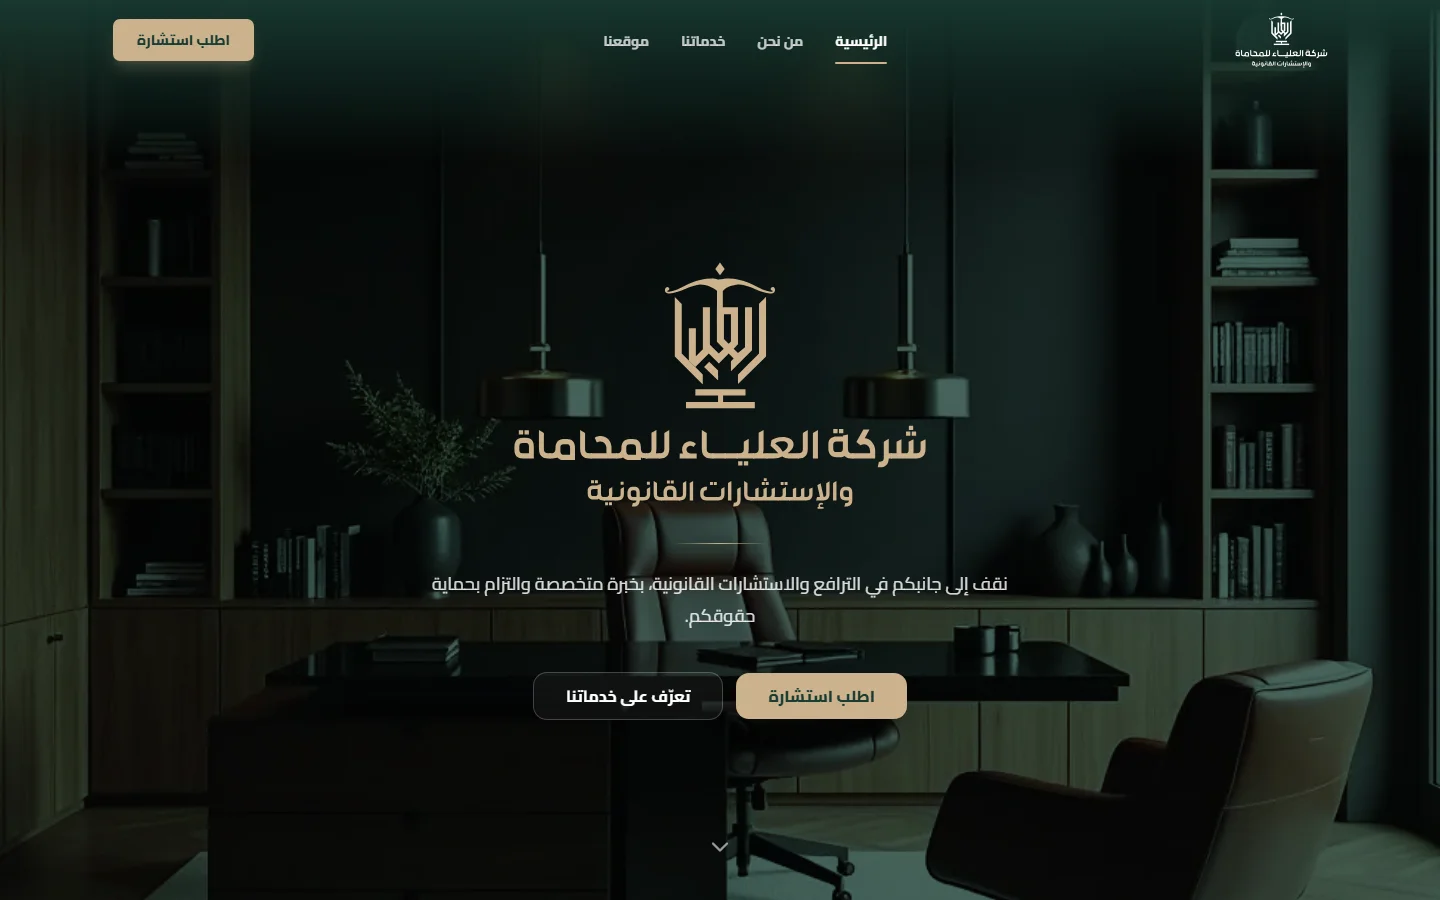
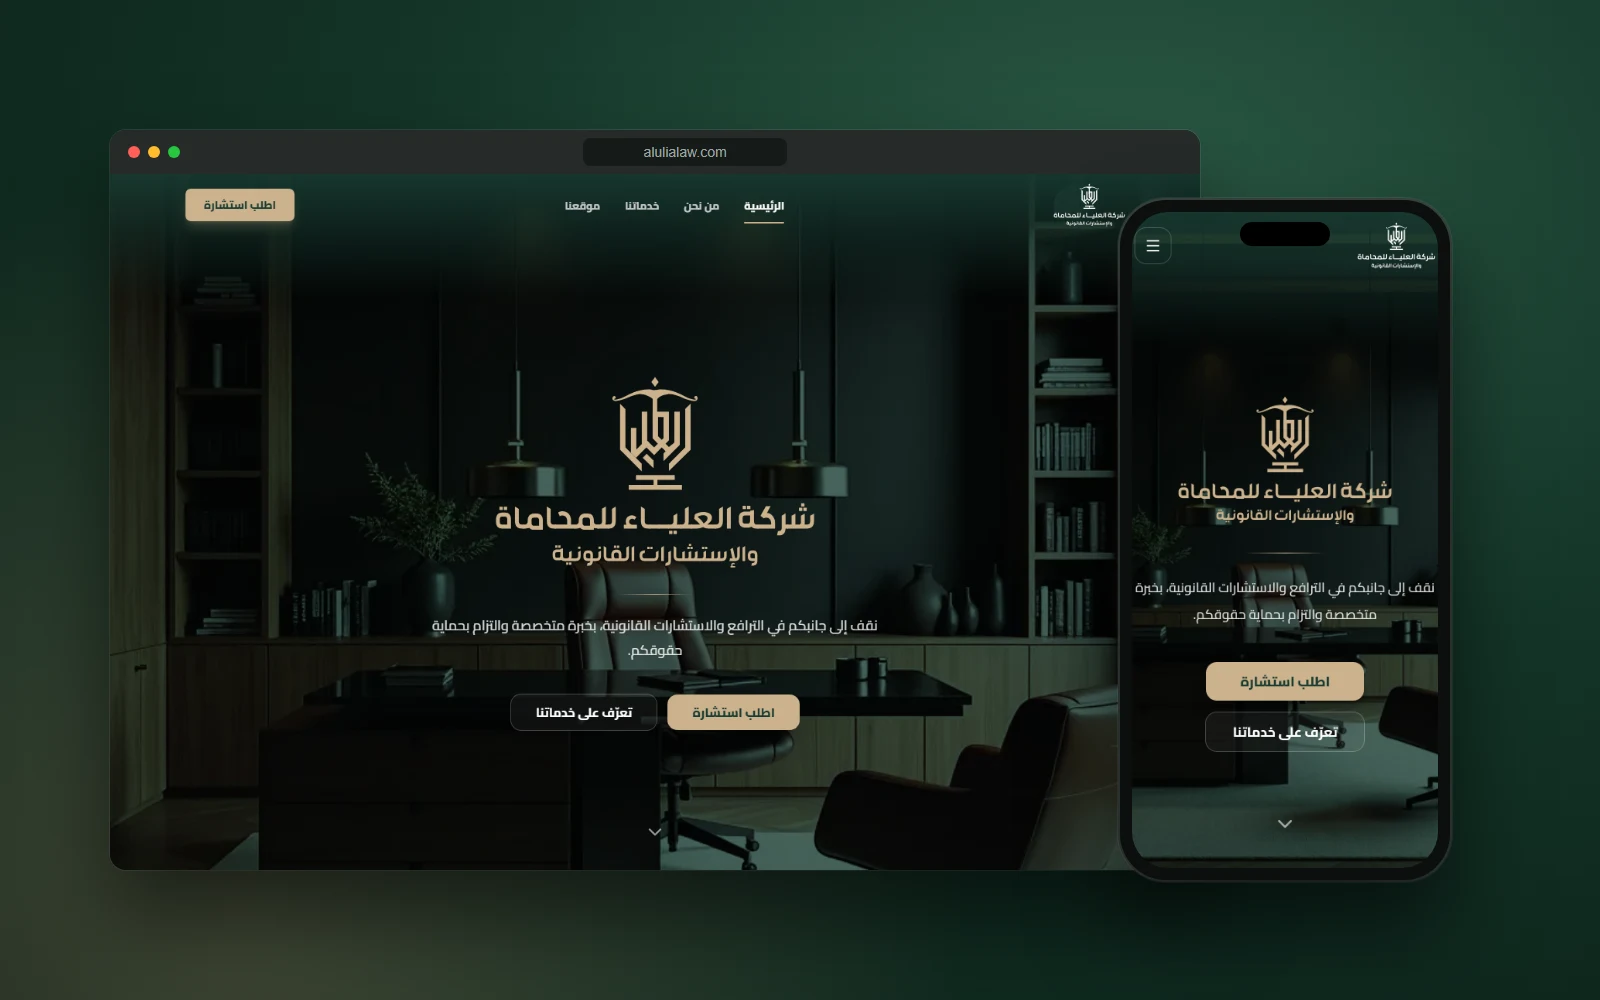
Redesign Al-Alia preview images (laptop + phone mockups, EN/AR) and use real domain

diff --git a/src/data/projects.ts b/src/data/projects.ts
@@ -38,7 +38,7 @@ export const PROJECTS: Project[] = [
       en: publicImage("alalia-en.webp"),
       ar: publicImage("alalia-ar.webp"),
     },
-    demoUrl: "https://al-alia-company-landing-page.vercel.app",
+    demoUrl: "https://alulialaw.com/",
   },
   {
     id: "qira",
